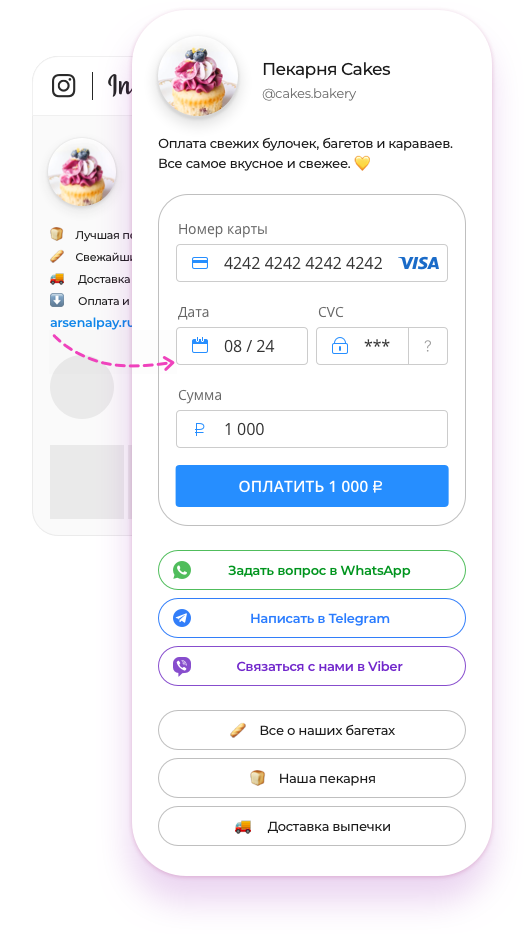
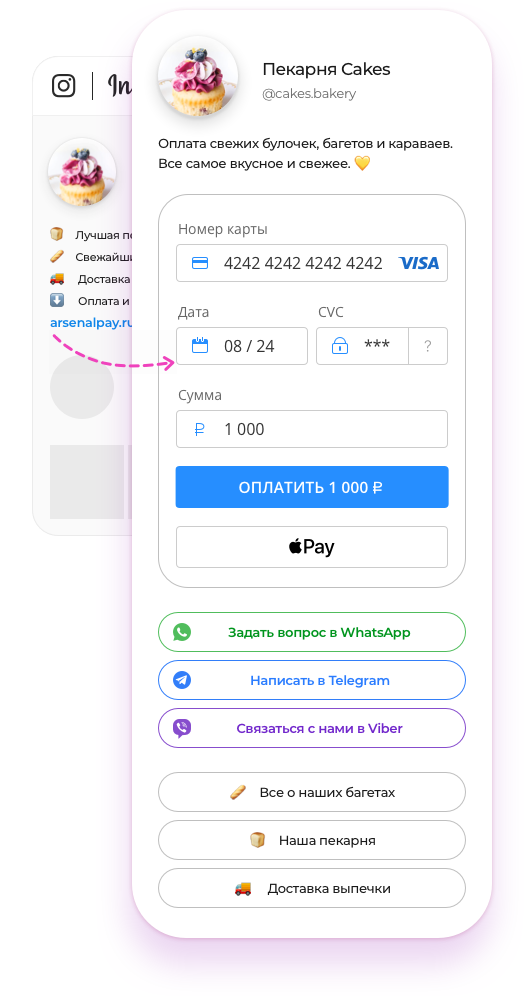
quickstart, instagram: add apple pay

diff --git a/src/pages/priem-platezhej-v-instagram.html b/src/pages/priem-platezhej-v-instagram.html
@@ -2,17 +2,17 @@
 layout: instagram
 
 title: "Прием платежей в Instagram без покупки онлайн кассы теперь и для самозанятых"
-description: "Принимайте платежи без переплат за онлайн кассу. Для юрлиц, ИП и самозанятых. Вам не нужно покупать или брать
-в аренду кассу. Свой сайт иметь не нужно. Клиенты смогут оплатить заказ прямо в Instagram, WhatsApp, VK. Кнопка быстрой связи
-в WhatsApp и мультиссылка бесплатно."
+description: "Принимайте платежи без переплат за онлайн кассу. Для юрлиц, ИП и самозанятых.
+Вам не нужно покупать или брать в аренду кассу. Свой сайт иметь не нужно.
+Клиенты смогут оплатить заказ картами или Apple Pay прямо в Instagram, WhatsApp, VK."
 
 image: "https://arsenalpay.ru/priem-platezhej-v-instagram-fb.png"
 canonical: "https://arsenalpay.ru/priem-platezhej-v-instagram.html"
 
 twitterTitle: "ArsenalPay | Прием платежей в Instagram без покупки онлайн кассы теперь и для самозанятых"
 twitterDescription: "Принимайте платежи без переплат за онлайн кассу. Для юрлиц, ИП и самозанятых.
-Вам не нужно покупать или брать в аренду кассу. Свой сайт иметь не нужно. Клиенты смогут оплатить заказ прямо в Instagram,
-WhatsApp, VK. Кнопка быстрой связи в WhatsApp и мультиссылка бесплатно."
+Вам не нужно покупать или брать в аренду кассу. Свой сайт иметь не нужно. Клиенты смогут оплатить
+заказ картами или Apple Pay прямо в Instagram, WhatsApp, VK."
 twitterImage: "priem-platezhej-v-instagram-tw.png"
 
 vkImage: "https://arsenalpay.ru/priem-platezhej-v-instagram-vk.png"
@@ -23,8 +23,8 @@ ogImage: "https://arsenalpay.ru/priem-platezhej-v-instagram-square.png"
 ogUrl: "https://arsenalpay.ru/priem-platezhej-v-instagram.html"
 ogTitle: "ArsenalPay | Прием платежей в Instagram без покупки онлайн кассы теперь и для самозанятых"
 ogDescription: "Принимайте платежи без переплат за онлайн кассу. Для юрлиц, ИП и самозанятых.
-Вам не нужно покупать или брать в аренду кассу. Свой сайт иметь не нужно. Клиенты смогут оплатить заказ прямо в Instagram,
-WhatsApp, VK. Кнопка быстрой связи в WhatsApp и мультиссылка бесплатно."
+Вам не нужно покупать или брать в аренду кассу. Свой сайт иметь не нужно. Клиенты смогут оплатить
+заказ картами или Apple Pay прямо в Instagram, WhatsApp, VK."
 
 footerLink: "https://arsenalpay.ru/dashboard/quickstart?step=1"
 
@@ -37,12 +37,12 @@ footerLink: "https://arsenalpay.ru/dashboard/quickstart?step=1"
     </div>
     <h1 class="page-section__title">Приём платежей в&nbsp;Instagram</h1>
     <div class="page-section__text">
-      <p class="text text--mgb-36 text--mgb-sm-32 text--mgb-md-36 text--ls-36 text--md-size-lg">Без сайта. Без покупки онлайн кассы. Без потери клиентов.</p>
+      <p class="text text--mgb-36 text--mgb-sm-32 text--mgb-md-36 text--ls-36 text--md-size-lg">Без сайта. Без покупки онлайн кассы.<br class="br br--show-sm br--hide-md"/> Без потери клиентов.<br class="br br--show-xs"/>Visa, MasterCard, Мир, Apple Pay.</p>
     </div>
     <a href="https://arsenalpay.ru/dashboard/quickstart?step=1" class="page-section__btn">Подключить</a>
     <div class="widget-box widget-box--instagram">
       <div class="widget-box__widget">
-        {{{ img name="widget-instagram" breakpoints='{"sm": true, "lg": true, "xl": true}'}}}
+        {{{ img className="widget-box--instagram-img" name="widget-instagram" breakpoints='{"sm": true, "lg": true, "xl": true}'}}}
       </div>
       <div class="widget-box__content">
         {{{ info-box
@@ -56,10 +56,10 @@ footerLink: "https://arsenalpay.ru/dashboard/quickstart?step=1"
           text='Вам не&nbsp;нужно покупать свою кассу. <br class="br--show-sm">Мы&nbsp;даем кассу бесплатно.'
           mods="align-left-lg, mgb-24, mgb-md-40"
           titleMods="lh-35-md"
-          textMods="lh-md-26, mw-520, mw-md-400" }}}
+          textMods="lh-md-26, mw-520, w-md-400, mw-md-400" }}}
         {{{ info-box
           title="Удобные платёжные функции"
-          text='Выставление счета клиентам. Возврат платежей. Холдирование платежей.'
+          text='Выставление счёта клиентам. Apple Pay. Возврат платежей. Холдирование платежей.'
           mods="align-left-lg, mgb-24, mgb-md-40"
           titleMods="lh-35-md"
           textMods="lh-md-26, mw-520, mw-md-400" }}}
@@ -219,6 +219,14 @@ footerLink: "https://arsenalpay.ru/dashboard/quickstart?step=1"
         width="52" height="46"
         mods="mgb-60, mgb-md-80, icon-space-lg"}}}
       {{{ info-box
+        title="Apple Pay"
+        text='Apple Pay упростит и ускорит оплату для ваших клиентов. Им не нужно вводить данные карты, адрес доставки и телефон.
+        Для безопасности платёж подтверждается<br class="br br--show-lg"/> отпечатком пальца — Touch ID, или через распознавание лица — Face ID.<br class="br br--show-lg"/> Отдельно настраивать
+        Apple Pay вам не придётся, все заработает сразу.'
+        icon='{"name": "apple-pay", "color": "black"}'
+        width="68" height="45"
+        mods="mgb-60, mgb-md-80, icon-space-lg"}}}
+      {{{ info-box
         title="Возврат платежа"
         text='Вы&nbsp;можете вернуть деньги клиенту в&nbsp;любое время в&nbsp;личном кабинете.
         Возврат можно сделать на&nbsp;всю сумму или на&nbsp;часть суммы. Комиссия за&nbsp;возврат платежа не&nbsp;взимается.'
@@ -345,7 +353,7 @@ footerLink: "https://arsenalpay.ru/dashboard/quickstart?step=1"
     <div class="rate">
       <div class="rate__item">
         {{{ rate-box count="3" text="Комиссия за успешный платёж <br class='br br--show-xs' /><b>от ArsenalPay</b>" }}}
-        {{{ rate-box count="2" prefix="+" text="Комиссия за успешный платёж <br class='br br--show-xs' /><b>от Visa, Mastercard, Мир</b>" }}}
+        {{{ rate-box count="2" prefix="+" text="Комиссия за успешный платёж <br class='br br--show-xs' /><b>от Visa, Mastercard, Мир, Apple Pay</b>" }}}
       </div>
       <div class="rate__item">
         {{{ note text='["У нас нет дополнительных комиссий и звездочек в договоре."]' mods="no-mgt, w-full" textMods="sm-center, lg" }}}

diff --git a/src/pages/quickstart.html b/src/pages/quickstart.html
@@ -3,16 +3,16 @@ layout: default
 
 title: "Приём платежей без сайта с бесплатной онлайн кассой теперь и для самозанятых"
 description: "Принимайте платежи без своего сайта. Теперь прием платежей доступен и для самозанятых.
-Никаких расходов на сайт и кассу. Вы экономите от 60 000 руб. в год. Вы сможете принимать платежи в Instagram, WhatsApp,
-Telegram, VK, Facebook, свой сайт иметь не нужно."
+Никаких расходов на сайт и кассу. Вы экономите от 60 000 руб. в год. Вы сможете принимать платежи картами
+и Apple Pay в Instagram, WhatsApp, Telegram, VK, Facebook, свой сайт иметь не нужно."
 
 image: "https://arsenalpay.ru/priem-platezhej-bez-sajta-fb.png"
 canonical: "https://arsenalpay.ru/quickstart.html"
 
 twitterTitle: "ArsenalPay | Приём платежей без сайта с бесплатной онлайн кассой теперь и для самозанятых"
 twitterDescription: "Принимайте платежи без своего сайта. Теперь прием платежей доступен и для самозанятых.
-Никаких расходов на сайт и кассу. Вы экономите от 60 000 руб. в год. Вы сможете принимать платежи в Instagram, WhatsApp,
-Telegram, VK, Facebook, свой сайт иметь не нужно."
+Никаких расходов на сайт и кассу. Вы экономите от 60 000 руб. в год. Вы сможете принимать платежи картами
+и Apple Pay в Instagram, WhatsApp, Telegram, VK, Facebook, свой сайт иметь не нужно."
 twitterImage: "priem-platezhej-bez-sajta-tw.png"
 
 vkImage: "https://arsenalpay.ru/priem-platezhej-bez-sajta-vk.png"
@@ -22,9 +22,9 @@ ogSecureUrl: "https://arsenalpay.ru/priem-platezhej-bez-sajta-fb.png"
 ogImage: "https://arsenalpay.ru/priem-platezhej-bez-sajta-square.png"
 ogUrl: "https://arsenalpay.ru/quickstart.html"
 ogTitle: "ArsenalPay | Приём платежей без сайта с бесплатной онлайн кассой теперь и для самозанятых"
-ogDescription: "Принимайте платежи без своего сайта. Теперь прием платежей доступен и для самозанятых. Никаких расходов
-на сайт и кассу. Вы экономите от 60 000 руб. в год. Вы сможете принимать платежи в Instagram, WhatsApp, Telegram, VK, Facebook,
-свой сайт иметь не нужно."
+ogDescription: "Принимайте платежи без своего сайта. Теперь прием платежей доступен и для самозанятых.
+Никаких расходов на сайт и кассу. Вы экономите от 60 000 руб. в год. Вы сможете принимать платежи картами
+и Apple Pay в Instagram, WhatsApp, Telegram, VK, Facebook, свой сайт иметь не нужно."
 
 footerLink: "https://arsenalpay.ru/dashboard/quickstart?step=1"
 
@@ -39,7 +39,7 @@ footerLink: "https://arsenalpay.ru/dashboard/quickstart?step=1"
     <div class="u--mgb-sm-36">
       <p class="text text--ls-36 text--inline-sm text--md-size-lg">Вам больше не&nbsp;нужен свой сайт, чтобы принимать платежи. <br class="br br--show-md"></p>
       <p class="text text--ls-36 text--inline-sm text--md-size-lg">Принимайте оплату где угодно&nbsp;&mdash; в&nbsp;любых соцсетях или месенджерах.</p>
-      <p class="text text--ls-36 text--inline-sm text--mgb-36 text--md-size-lg"><br class="br br--show-lg">Карты всех стран мира: <br class="br br--show-xs br--hide-sm">Visa,&nbsp;MasterCard, Maestro,&nbsp;Мир.</p>
+      <p class="text text--ls-36 text--inline-sm text--mgb-36 text--md-size-lg"><br class="br br--show-lg">Карты всех стран мира: <br class="br br--show-xs br--hide-sm">Visa, MasterCard, Мир, Apple Pay.</p>
     </div>
     <a href="https://arsenalpay.ru/dashboard/quickstart?step=1" class="page-section__btn" style="margin-bottom: 0">Подключить</a>
   </div>
@@ -133,7 +133,7 @@ footerLink: "https://arsenalpay.ru/dashboard/quickstart?step=1"
     </div>
     <div class="widget-box widget-box--no-site">
       <div class="widget-box__widget">
-        {{{ img name="widget-no-site" breakpoints='{"sm": true}'}}}
+        {{{ img className="widget-box--no-site-img" name="widget-no-site" breakpoints='{"sm": true}'}}}
       </div>
       <div class="widget-box__content">
         {{{ info-box
@@ -183,6 +183,14 @@ footerLink: "https://arsenalpay.ru/dashboard/quickstart?step=1"
           Вам придёт уведомление как&nbsp;только счёт будет оплачен.'
         icon='{"name": "check-medium", "color": "pink"}'
         width="52" height="46"
+        mods="mgb-60, mgb-md-80, icon-space-lg"}}}
+      {{{ info-box
+        title="Apple Pay"
+        text='Apple Pay упростит и ускорит оплату для ваших клиентов. Им не нужно вводить данные карты, адрес доставки и телефон.
+          Для безопасности платёж подтверждается<br class="br br--show-lg"/> отпечатком пальца — Touch ID, или через распознавание лица — Face ID.<br class="br br--show-lg"/> Отдельно настраивать
+          Apple Pay вам не придётся, все заработает сразу.'
+        icon='{"name": "apple-pay", "color": "black"}'
+        width="68" height="45"
         mods="mgb-60, mgb-md-80, icon-space-lg"}}}
       {{{ info-box
         title="Возврат платежа"
@@ -241,7 +249,7 @@ footerLink: "https://arsenalpay.ru/dashboard/quickstart?step=1"
     <div class="rate">
       <div class="rate__item">
         {{{ rate-box count="3" text="Комиссия за успешный платёж <br class='br br--show-xs' /><b>от ArsenalPay</b>" }}}
-        {{{ rate-box count="2" prefix="+" text="Комиссия за успешный платёж <br class='br br--show-xs' /><b>от Visa, Mastercard, Мир</b>" }}}
+        {{{ rate-box count="2" prefix="+" text="Комиссия за успешный платёж <br class='br br--show-xs' /><b>от Visa, Mastercard, Мир, Apple Pay</b>" }}}
       </div>
       <div class="rate__item">
         {{{ note text='["У нас нет дополнительных комиссий и звездочек в договоре."]' mods="no-mgt, w-full" textMods="sm-center, lg" }}}

diff --git a/src/assets/scss/components/_widget-box.scss b/src/assets/scss/components/_widget-box.scss
@@ -1,6 +1,6 @@
 .widget-box {
-  --widget-instagram-height--xs: 1178px;
-  --widget-instagram-height--sm: 934px;
+  --widget-instagram-height--xs: 1234px;
+  --widget-instagram-height--sm: 996px;
   --widget-instagram-width--sm: 583px;
 
   display: flex;
@@ -147,19 +147,19 @@
       --border-radius-bottom: 36px;
 
       margin-bottom: 48px;
-      height: 794px;
+      height: 850px;
       border-radius: var(--border-radius-top) var(--border-radius-top) var(--border-radius-bottom) var(--border-radius-bottom);
 
       @include media-breakpoint-up(sm) {
         margin-bottom: 56px;
         width: 360px;
-        height: 867px;
+        height: 928px;
         border-bottom-left-radius: var(--border-radius-top);
         border-bottom-right-radius: var(--border-radius-top);
       }
 
       @include media-breakpoint-up(md) {
-        margin-top: 22px;
+        margin-top: 20px;
         margin-bottom: 80px;
       }
 
@@ -304,16 +304,9 @@
 
   &__widget img {
     display: block;
-    margin-top: -4px;
 
     @include media-breakpoint-up(sm) {
       margin-top: 0;
-    }
-
-    .widget-box--no-site & {
-      @include media-breakpoint-up(sm) {
-        margin-top: 19px;
-      }
     }
   }
 
@@ -339,13 +332,15 @@
       @include media-breakpoint-up(lg) {
         padding-top: 55px;
       }
-    }
 
-    //.widget-box--dashboard & {
-    //  @include media-breakpoint-up(lg) {
-    //    margin-top: 40px;
-    //  }
-    //}
+      @media screen and (min-width: 1000px){
+        padding-top: 70px;
+      }
+
+      @include media-breakpoint-up(xl) {
+        padding-top: 90px;
+      }
+    }
 
     .widget-box--instagram & {
       @include media-breakpoint-up(sm) {
@@ -353,8 +348,12 @@
       }
 
       @include media-breakpoint-up(lg) {
-        margin-top: 67px;
+        margin-top: 40px;
         grid-column: 2 / 3;
+      }
+
+      @include media-breakpoint-up(xl) {
+        margin-top: 67px;
       }
     }
 
@@ -392,6 +391,10 @@
         margin-top: -3px;
       }
 
+      @media screen and (min-width: 1000px) {
+        margin-top: 25px;
+      }
+
       @include media-breakpoint-up(xl) {
         margin-top: 8px;
       }
@@ -407,10 +410,30 @@
         margin-left: 20px;
       }
 
+      @media screen and (min-width: 1000px){
+        margin-top: 55px;
+      }
+
       @include media-breakpoint-up(xl) {
         margin-top: 55px;
         margin-left: 40px;
       }
     }
+  }
+}
+
+picture.img.widget-box--instagram-img {
+  height: 1234px;
+
+  @include media-breakpoint-up(sm) {
+    height: 996px;
+  }
+}
+
+picture.img.widget-box--no-site-img {
+  height: 850px;
+
+  @include media-breakpoint-up(sm) {
+    height: 928px;
   }
 }

diff --git a/src/helpers/img.js b/src/helpers/img.js
@@ -1,4 +1,5 @@
 module.exports = function(options) {
+  const className = options.hash.className || '';
   const name = options.hash.name;
   const width = options.hash.width;
   const height = options.hash.height;
@@ -19,7 +20,7 @@ module.exports = function(options) {
 
   cssClass+= allMods;
 
-  return `<picture class="${cssClass}">
+  return `<picture class="${cssClass} ${className}">
     ${breakpoints.xxl ? `<source media="(min-width: 1440px)" srcset="${root}assets/img/content/${name}--xxl.${ext} 1x, ${root}assets/img/content/${name}--xxl@2x.${ext} 2x, ${root}assets/img/content/${name}--xxl@3x.${ext} 3x">` : ``}
     ${breakpoints.xl ? `<source media="(min-width: 1280px)" srcset="${root}assets/img/content/${name}--xl.${ext} 1x, ${root}assets/img/content/${name}--xl@2x.${ext} 2x, ${root}assets/img/content/${name}--xl@3x.${ext} 3x">` : ``}
     ${breakpoints.lg ? `<source media="(min-width: 900px)" srcset="${root}assets/img/content/${name}--lg.${ext} 1x, ${root}assets/img/content/${name}--lg@2x.${ext} 2x, ${root}assets/img/content/${name}--lg@3x.${ext} 3x">` : ``}

diff --git a/src/assets/scss/components/_media-box.scss b/src/assets/scss/components/_media-box.scss
@@ -122,6 +122,10 @@
         margin-right: 45px;
       }
 
+      @media screen and (min-width: 1000px) {
+        margin-top: 120px;
+      }
+
       @include media-breakpoint-up(xl) {
         margin-top: 95px;
         //margin-left: 2px;

diff --git a/src/assets/scss/components/_info-box.scss b/src/assets/scss/components/_info-box.scss
@@ -302,6 +302,12 @@
       }
     }
 
+    &--w-md-400 {
+      @include media-breakpoint-up(md) {
+        width: 400px;
+      }
+    }
+
     &--mw-lg-400 {
       @include media-breakpoint-up(lg) {
         max-width: 400px;

diff --git a/src/assets/scss/components/_rate-box.scss b/src/assets/scss/components/_rate-box.scss
@@ -8,6 +8,10 @@
     display: flex;
     justify-content: center;
     align-items: baseline;
+
+    &:first-of-type {
+      margin-left: -28px;
+    }
   }
 
   @-moz-document url-prefix() {
